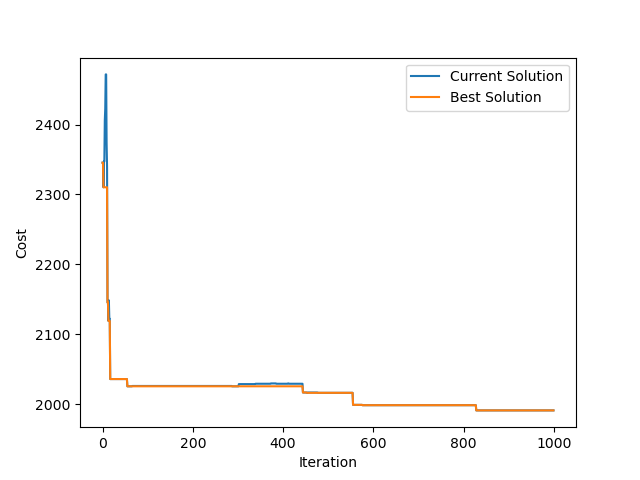
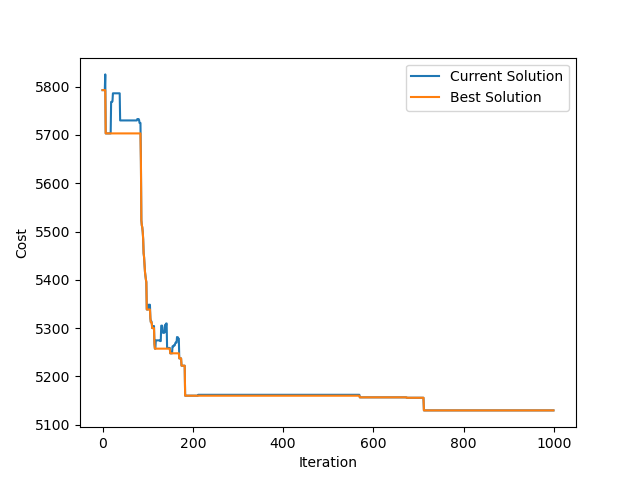
final changes

diff --git a/Setup.py b/Setup.py
@@ -2,5 +2,5 @@
 This file contains the setup for analysis
 """
 instanceList = [
-                "Ca2-2,3,15.txt",
+                "Ca5-6,4,50.txt",
 ]
